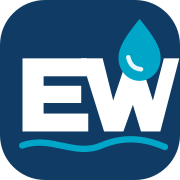
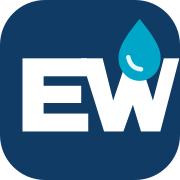
Apply official Evergreen Water branding

Changed region(s): [[0.0833, 0.75, 0.9444, 0.8611]]

diff --git a/components/portal/PortalShell.js b/components/portal/PortalShell.js
@@ -33,7 +33,7 @@ export default function PortalShell({ customerName, customerCode, unreadCount, c
       <div className="flex items-center gap-2 min-w-0">
         {!isHome && <div className="flex items-center gap-1"><button type="button" onClick={() => router.back()} aria-label="Previous portal page" title="Back" className="w-9 h-9 grid place-items-center rounded-xl border border-line bg-card hover:bg-foam"><ChevronLeft size={18}/></button><button type="button" onClick={() => router.forward()} aria-label="Next portal page" title="Next" className="w-9 h-9 grid place-items-center rounded-xl border border-line bg-card hover:bg-foam"><ChevronRight size={18}/></button></div>}
         <Image src="/ew-mark.svg" width={38} height={38} alt="Evergreen Water" className="rounded-xl shadow-sm flex-shrink-0" priority />
-        <div className="min-w-0"><div className="text-sm font-bold leading-tight truncate">{customerName || "My Evergreen Water"}</div><div className="text-[10.5px] text-slate leading-tight mt-0.5">{customerCode ? `Customer ID · ${customerCode}` : "Customer portal"}</div></div>
+        <div className="min-w-0"><div className="text-sm font-bold leading-tight truncate">{customerName || "Evergreen Water"}</div><div className="text-[10.5px] text-slate leading-tight mt-0.5">{customerCode ? `${customerCode} · Pure Drinking Water` : "Pure Drinking Water"}</div></div>
       </div>
       <div className="flex items-center gap-1.5"><Link href="/portal/notifications" aria-label="Notifications" className="relative w-9 h-9 grid place-items-center rounded-xl hover:bg-foam"><Bell size={17} className="text-slate" />{unreadCount > 0 ? <span className="absolute top-1.5 right-1.5 min-w-4 h-4 px-1 grid place-items-center text-[8px] font-bold text-white bg-coral rounded-full ring-2 ring-card">{Math.min(unreadCount, 99)}</span> : null}</Link><button type="button" onClick={handleSignOut} aria-label="Sign out" className="w-9 h-9 grid place-items-center rounded-xl hover:bg-coralSoft text-slate hover:text-coral"><LogOut size={17} /></button></div>
     </header>

diff --git a/lib/pdf/DocumentChrome.js b/lib/pdf/DocumentChrome.js
@@ -60,7 +60,7 @@ export function DocumentStatusBadge({ status, label }) {
 
 export function BrandHeader({ branding, title, subtitle, meta, extra, status, statusLabel }) {
   const contact = contactLines(branding);
-  return <View style={styles.header} fixed><View style={styles.brand}>{branding?.logo ? <View style={styles.logoTile}><Image src={branding.logo} style={styles.logo} /></View> : null}<View style={{ flex: 1 }}><Text style={styles.brandName}>{branding?.businessName || "Evergreen Water"}</Text><Text style={styles.brandTagline}>PURE DRINKING WATER · 19L DOORSTEP DELIVERY</Text>{contact.length ? <Text style={styles.brandContact}>{contact.join("\n")}</Text> : null}</View></View><View style={styles.headerRight}><Text style={styles.docTitle}>{title}</Text>{subtitle ? <Text style={styles.docSubtitle}>{subtitle}</Text> : null}{meta ? <Text style={styles.docMeta}>{meta}</Text> : null}{status ? <DocumentStatusBadge status={status} label={statusLabel} /> : extra || null}</View></View>;
+  return <View style={styles.header} fixed><View style={styles.brand}>{branding?.logo ? <View style={styles.logoTile}><Image src={branding.logo} style={styles.logo} /></View> : null}<View style={{ flex: 1 }}><Text style={styles.brandName}>{branding?.businessName || "Evergreen Water"}</Text><Text style={styles.brandTagline}>PURE DRINKING WATER</Text>{contact.length ? <Text style={styles.brandContact}>{contact.join("\n")}</Text> : null}</View></View><View style={styles.headerRight}><Text style={styles.docTitle}>{title}</Text>{subtitle ? <Text style={styles.docSubtitle}>{subtitle}</Text> : null}{meta ? <Text style={styles.docMeta}>{meta}</Text> : null}{status ? <DocumentStatusBadge status={status} label={statusLabel} /> : extra || null}</View></View>;
 }
 
 export function CustomerInfo({ title = "Customer Information", items = [] }) {

diff --git a/lib/pdf/business.js b/lib/pdf/business.js
@@ -19,6 +19,12 @@ async function urlToDataUri(url) {
   }
 }
 
+const OFFICIAL_TAGLINE = "Pure Drinking Water";
+const normalizedTagline = (value) => {
+  const text = String(value || "").trim();
+  return !text || /your business in your pocket/i.test(text) ? OFFICIAL_TAGLINE : text;
+};
+
 // Single place every document generator (PDF routes, on-screen print
 // headers, Excel exports) reads the company's letterhead from — one edit
 // on the Settings page's Business Branding card updates every future
@@ -39,7 +45,7 @@ export async function getBusinessBranding(supabase) {
     businessName: data?.business_name || "Evergreen Water",
     address: data?.address || null,
 
-    tagline: data?.tagline || "Pure Drinking Water",
+    tagline: normalizedTagline(data?.tagline),
     phone: data?.phone || null,
     phone2: data?.phone_2 || null,
     whatsapp: data?.whatsapp_number || null,
@@ -77,7 +83,7 @@ export async function getBrandingLite(supabase) {
   const { data } = await supabase.from("business_settings").select("*").maybeSingle();
   return {
     businessName: data?.business_name || "Evergreen Water",
-    tagline: data?.tagline || "Pure Drinking Water",
+    tagline: normalizedTagline(data?.tagline),
     logoUrl: data?.logo_url || null,
     signatureUrl: data?.signature_url || null,
     stampUrl: data?.stamp_url || null,

diff --git a/components/Sidebar.js b/components/Sidebar.js
@@ -199,9 +199,9 @@ function RailNav({ entries, pathname, unreadNotifications }) {
 
 function BrandHeader({ onCollapse }) {
   return (
-    <div className="flex items-center gap-2 px-1.5 pb-4">
-      <Image src="/ew-mark.svg" width={36} height={36} alt="Evergreen Water" className="rounded-xl flex-shrink-0" priority unoptimized />
-      <span className="min-w-0 flex-1"><span className="block font-display text-sm font-semibold leading-tight">Evergreen Water</span><span className="erp-sidebar-muted block truncate text-[9px] font-medium">Your business in your pocket</span></span>
+    <div className="flex items-center gap-2.5 px-1.5 pb-4">
+      <Image src="/ew-mark.svg" width={38} height={38} alt="EW — Evergreen Water" className="rounded-xl flex-shrink-0" priority unoptimized />
+      <span className="min-w-0 flex-1"><span className="block font-display text-[15px] font-semibold leading-tight">Evergreen Water</span><span className="erp-sidebar-muted mt-0.5 block truncate text-[10px] font-medium leading-tight">Pure Drinking Water</span></span>
       {onCollapse && <button type="button" onClick={onCollapse} title="Collapse sidebar" className="erp-sidebar-icon-btn w-7 h-7 flex items-center justify-center rounded-lg"><ChevronLeft size={16} /></button>}
     </div>
   );

diff --git a/app/portal/login/page.js b/app/portal/login/page.js
@@ -91,6 +91,7 @@ export default function PortalLoginPage() {
         <div className="flex flex-col items-center text-center mb-6">
           <Image src="/icon-192.png" width={60} height={60} alt="Evergreen Water" className="rounded-2xl shadow-lg mb-3" priority unoptimized />
           <h1 className="font-display text-xl font-semibold">My Evergreen Water</h1>
+          <p className="mt-1 text-[10px] font-semibold uppercase tracking-[0.18em] text-aqua">Pure Drinking Water</p>
           <p className="text-xs text-slate mt-1 max-w-[260px]">Deliveries, payments, bottles and statements—securely in your pocket.</p>
         </div>
 

diff --git a/app/login/page.js b/app/login/page.js
@@ -123,7 +123,7 @@ export default function LoginPage() {
         <div className="mb-7 flex flex-col items-center text-center">
           <BrandMark size={54} />
           <p className="mt-3 font-display text-lg font-bold text-ink">Evergreen Water</p>
-          <p className="mt-1 text-[10px] font-semibold uppercase tracking-[0.19em] text-slate">Your Business in Your Pocket</p>
+          <p className="mt-1 text-[10px] font-semibold uppercase tracking-[0.19em] text-aqua">Pure Drinking Water</p>
         </div>
 
           {mode === "signin" ? (

diff --git a/public/sw.js b/public/sw.js
@@ -2,7 +2,7 @@
 // below (see the fetch handler comment) — this alone clears the corrupted
 // chunks that were causing "Something went wrong" indefinitely, in every
 // tab on this origin, until this deploy.
-const CACHE_NAME = "evergreen-shell-v3";
+const CACHE_NAME = "evergreen-shell-v4";
 const SHELL_ASSETS = ["/manifest.json", "/portal-manifest.json", "/icon-192.png", "/icon-512.png"];
 
 self.addEventListener("install", (event) => {

diff --git a/app/portal/layout.js b/app/portal/layout.js
@@ -1,6 +1,6 @@
 export const metadata = {
   title: "Evergreen Water Customer",
-  description: "View your approved Evergreen Water deliveries, bottles, invoices and statements.",
+  description: "Evergreen Water — Pure Drinking Water customer portal.",
   manifest: "/portal-manifest.json",
   applicationName: "Evergreen Water Customer",
   icons: {

diff --git a/app/layout.js b/app/layout.js
@@ -4,7 +4,7 @@ import Script from "next/script";
 
 export const metadata = {
   title: "Evergreen Water ERP",
-  description: "Evergreen Water's digital headquarters",
+  description: "Evergreen Water — Pure Drinking Water",
   manifest: "/manifest.json",
   applicationName: "Evergreen Water ERP",
   icons: {
